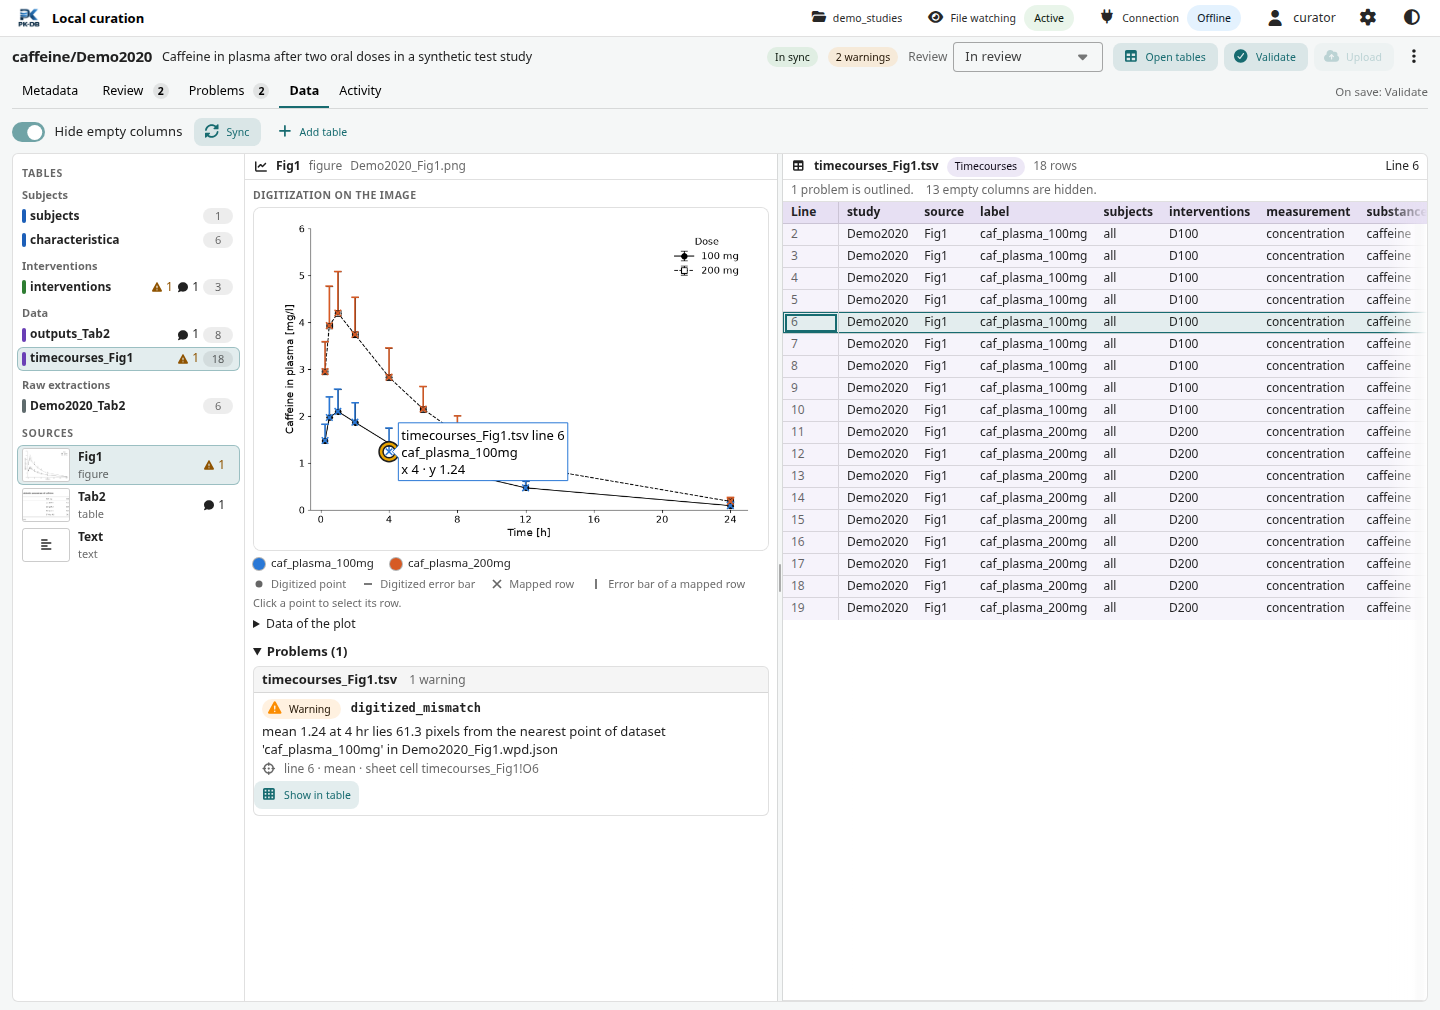
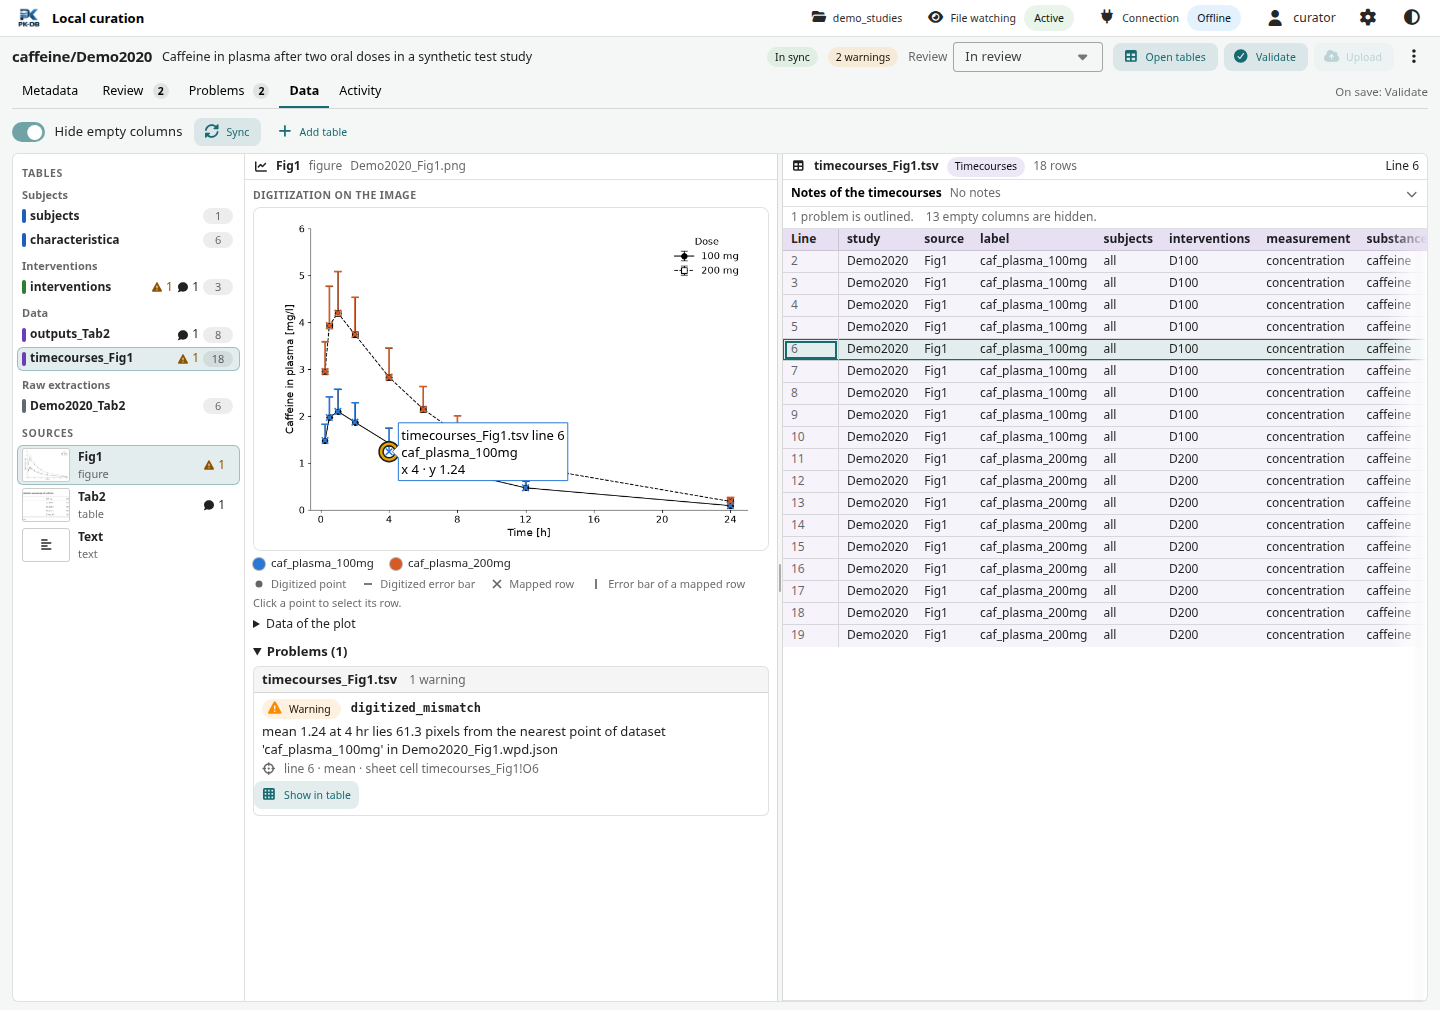
Document the notes of a table in the Data section

Changed region(s): [[0.5312, 0.1842, 1.0, 0.6446]]

diff --git a/docs/local-curation.md b/docs/local-curation.md
@@ -107,9 +107,9 @@ The Metadata section edits `study.json` in forms.
 - **People**: the creator, the curators with a rating from 0 to 5 stars in half steps, and the collaborators, offered from the curator roster.
 - **Access and provenance**: the licence, open or closed, and the access, public or private; public needs a release. The provenance is a manual curation, or an automatic curation with its method, version, run ID and assets. A data import is shown as the importer set it.
 - **Issue and release**: read only. `pkdb new` or `pkdb issues sync --adopt` sets the issue. `pkdb release STUDY...` sets the release of approved studies without open review items and validation errors; release through a pull request.
-- **Descriptions and comments**, and **Notes per table** for each kind of table. A comment records the user who wrote it.
+- **Descriptions and comments** of the study. A comment records the user who wrote it. The notes of each kind of table are in the Data section, above the table; the notes of a kind that the study has no table of stay in this card.
 
-Edits stay in the form until you save them. The bar at the bottom shows **Unsaved changes in study.json** with **Save** and **Discard**, and **Undo** brings discarded edits back for a few seconds. Leaving the section with unsaved changes asks first. **Save** checks the whole document and writes it. When it is not valid, nothing is written and the fields with problems are marked. A new PMID or DOI fetches `reference.json` for it; when the lookup fails, `study.json` is saved and the bar says why.
+Edits stay in the form until you save them. The Metadata and Data sections edit one draft of `study.json`: the bar at the bottom of both shows **Unsaved changes in study.json** with **Save** and **Discard**, and **Undo** brings discarded edits back for a few seconds. A dot on the tab of a section marks its unsaved fields: Metadata for the fields of this section, Data for the notes of the tables. Switching between the sections of the study keeps the edits; leaving the study with unsaved changes asks first. **Save** checks the whole document and writes it. When it is not valid, nothing is written, the fields with problems are marked, and the bar lists the problems in the notes of a table with their field. A new PMID or DOI fetches `reference.json` for it; when the lookup fails, `study.json` is saved and the bar says why.
 
 When `study.json` changes on disk while the form has unsaved edits, **Save** is refused and the bar offers **Reload**. Reload puts your edits on top of the new version and marks the fields that changed on disk. A field that changed on both sides keeps your edit, shows the value on disk, and offers **Use the disk version**. Without unsaved edits, the form follows the file on disk by itself.
 
@@ -131,7 +131,7 @@ The review status select in the header, labelled **Review**, sets Draft, In revi
 
 The Problems section lists the issues of the last validation by file. Each shows its severity, code and message, and where it is: the line and the column of the TSV file and the cell of the workbook sheet. Spelling suggestions follow **Did you mean:**.
 
-Filter by **All**, **Errors** or **Warnings**. **Show in table** opens the Data section at the cell of the issue. **Open** opens another file of the study, such as `study.json`, in its default application, and **Open tables** opens the workbook.
+Filter by **All**, **Errors** or **Warnings**. **Show in table** opens the Data section at the cell of the issue. **Show notes** opens the notes of a kind of table above its first table in the Data section, for a problem in those notes in `study.json`. **Open** opens another file of the study, such as `study.json`, in its default application, and **Open tables** opens the workbook.
 
 **Acknowledge** marks a warning as expected; errors cannot be acknowledged. Neither can the warnings of a sync that stopped before the validation, such as a workbook saved during the sync: they are about the workbook, not about the study files. It asks for a reason and writes a resolved review item that acknowledges exactly this warning: a warning at a row of a data table at its row and column, and a warning of a whole file by its key, such as the dataset of a WebPlotDigitizer project or the review item of `review.json`. Other warnings with the same code, also later ones, stay listed. The warning leaves the list after the next validation. The acknowledged warnings are listed below the problems with their reason and a link to their review item. An acknowledgement that names only a file, as the app wrote before acknowledgements were exact, covers every warning of its code in that file, also later ones, and the list says so. Dismissing the review item brings its warnings back.
 
@@ -150,6 +150,10 @@ The separator between the source pane and the rows pane resizes them; drag it or
 The selection is linked. Choose a table in the navigator, and the source pane shows its source: a table of one source, such as `outputs_Tab2.tsv` or the raw extraction `Demo2020_Tab2.tsv`, belongs to `Tab2`, and a shared table keeps the source that is shown. Choose a source, and the rows pane shows the first table that it owns, unless it already shows a table of the source; a source that owns no table, such as the text, keeps the current table when it is a shared table, else opens the first table that names the source in its rows. Click a row of a shared table, and the source pane shows the source that the row names. Click a row, and the source pane rings its point on the plot or the image. Click the cross of a mapped row, and the rows pane selects its row. The selection is in the address of the page as `source`, `file`, `line` and `column`, so that **Show in table** of the Problems and Review sections and the line numbers of a review target open the row. The section opens on the first table with problems or open review items, else on the first table, beside its source, or beside the first source for a shared table, and keeps the selection in the address, so that it stays when the problems change.
 
 The mapped rows of a source are the rows of its tables `outputs_<source>.tsv`, `timecourses_<source>.tsv` and `scatters_<source>.tsv`, and the rows of `subjects.tsv`, `characteristica.tsv` and `interventions.tsv` whose `source` names it. These three tables are shared by the sources and name the source of each row, so the rows pane shows all of their rows and has a **Source** select in its head: **All**, each source that the rows name, and **No source**, each with its number of rows. The app keeps the choice of each table while the study is open. When no row has the chosen source, the rows pane says so, with a **Show all rows** button. A row that the address names always shows. **Hide empty columns** hides the columns without values; it is on when the section opens, and the line above the grid counts the hidden columns.
+
+[![The Data section with subjects.tsv: the notes of the subjects open above its rows with two descriptions and a comment, a changed description, the Data tab marked as unsaved, and the bar with Save and Discard at the bottom.](images/curation/data-notes.png)](images/curation/data-notes.png)
+
+Above the rows of a table, a line such as **Notes of the subjects** says what `study.json` notes about that kind of table, such as **2 descriptions · 1 comment** or **No notes**. Click it to open the descriptions and comments and edit them, and again to close them. Notes belong to a kind of table, so every `outputs_<source>.tsv` shows the same notes of the outputs, and a raw extraction has none. The notes start closed, open by themselves when a field in them has a problem, and stay open or closed for each kind while the study is open. Edits go into the draft of `study.json` that the Metadata section edits too: the bar at the bottom of the section shows **Save**, **Discard** and **Undo**, and the Data tab has a dot until you save. While `study.json` is not valid, the notes say so and list the problems in them, with a link to the Metadata section.
 
 The toolbar above the panes has, in this order: in a window narrower than 1100 pixels, the selects **Table** and **Source**; the switch **Hide empty columns**, while a table is shown; **Sync**, which syncs the workbook `<name>.xlsx` and the tables at once; and **Add table**, which adds a sheet to the workbook, see [Work with the workbook](#work-with-the-workbook). A line of text ends the toolbar: after a sync in the app it says what the sync changed, and while the status is not In sync it says what the status means. The sync status itself is in the study header.
 

diff --git a/tools/curation_docs/README.md b/tools/curation_docs/README.md
@@ -1,6 +1,6 @@
 # Curation app screenshots and benchmarks
 
-`render.mjs` renders the screenshots of [the local curation app guide](../../docs/local-curation.md) into `docs/images/curation/`: `overview.png`, `review.png`, `data.png`, `metadata.png` and `data-conflict.png`, in the light theme, 1440 pixels wide. `review.png` and `data.png` are 1010 pixels high, so that they show the whole review target or the whole figure with its legend; the others are 900 pixels high. It drives the real app of a running `pkdb curate` in Chromium by roles and labels. The app runs on a copy of the synthetic fixture workspace of the browser tests (`tools/curation_testing/fixture`), so the images show no real publication or account.
+`render.mjs` renders the screenshots of [the local curation app guide](../../docs/local-curation.md) into `docs/images/curation/`: `overview.png`, `review.png`, `data.png`, `metadata.png`, `data-notes.png` and `data-conflict.png`, in the light theme, 1440 pixels wide. `review.png` and `data.png` are 1010 pixels high, so that they show the whole review target or the whole figure with its legend; the others are 900 pixels high. It drives the real app of a running `pkdb curate` in Chromium by roles and labels. The app runs on a copy of the synthetic fixture workspace of the browser tests (`tools/curation_testing/fixture`), so the images show no real publication or account.
 
 The renderer changes the workspace: for `data-conflict.png` it edits the same cell of `caffeine/Demo2020` in the workbook and in `timecourses_Fig1.tsv`. Start every run from a fresh copy.
 
@@ -25,7 +25,7 @@ In a second terminal, pass the launch URL that `pkdb curate` printed, before any
 PKDB_CURATION_URL='http://127.0.0.1:PORT/#token=LAUNCH_TOKEN' node tools/curation_docs/render.mjs
 ```
 
-The renderer imports the column letters from `frontend/src/curation-app/columns.ts`, which Node.js runs without a build step since version 22.18. It accepts only a launch URL on a loopback address, and refuses a workspace folder with another name than `demo_studies`. It never prints the launch token: an error message shows `<launch token>` in its place. Before each image it waits until the app shows the expected content, no menu is open and nothing moves. It writes the five images and quantizes them to 256 colors with `optimize_png.py`, which keeps them small without a visible change: it keeps a quantized image only when no channel of any pixel differs from the original by more than 12, so that thin colored bars keep their hue, and leaves an image as it is otherwise. Set `PKDB_CURATION_SCREENSHOTS` to a folder to write the images there instead. Stop `pkdb curate` with Ctrl+C afterwards, and look at every image before you commit it.
+The renderer imports the column letters from `frontend/src/curation-app/columns.ts`, which Node.js runs without a build step since version 22.18. It accepts only a launch URL on a loopback address, and refuses a workspace folder with another name than `demo_studies`. It never prints the launch token: an error message shows `<launch token>` in its place. Before each image it waits until the app shows the expected content, no menu is open and nothing moves. It writes the six images and quantizes them to 256 colors with `optimize_png.py`, which keeps them small without a visible change: it keeps a quantized image only when no channel of any pixel differs from the original by more than 12, so that thin colored bars keep their hue, and leaves an image as it is otherwise. Set `PKDB_CURATION_SCREENSHOTS` to a folder to write the images there instead. Stop `pkdb curate` with Ctrl+C afterwards, and look at every image before you commit it.
 
 Validation performance can be measured offline with `python/.venv/bin/python tools/curation_docs/benchmark_validation.py /path/to/studies`. See [measured timings and optimization opportunities](../../docs/benchmarks/curation-validation-2026-09-24.md).
 

diff --git a/release-notes/unreleased.md b/release-notes/unreleased.md
@@ -3,3 +3,5 @@
 - The local curation app says what failed and why (#923). Every failed request of the local curation server answers with a message that names the action and the study, the detail of its cause (for a program that could not open a file: its name, its exit status and the end of its error output), the action, a request id and the time, and an unexpected error adds its traceback. The app shows the message and the detail in its alerts, with Details (the facts and the traceback), Copy details, which copies them as Markdown for an issue, and Show in Activity; a study, table or source that cannot be read says why. Failed changes of a study that the server logs are listed in its Activity, a failed job keeps its error, and File watching shows Error while the file watcher fails. The server writes these failures with their traceback to `logs/curation.log` in its state directory (by default `~/.cache/pkdb/curation/` on Linux) and one line naming the request id to the terminal of `pkdb curate`; a failure that repeats is logged once a minute, and the API key and the tokens appear in no answer, log or terminal line. `pkdb tables open` says which command failed instead of printing a traceback.
 
 - The Data section of the local curation app shows the tables first and color codes them (#924). The navigator lists the tables under Subjects, Interventions, Data and Raw extractions, each with a bar in the color of its class of information (blue, green, violet and gray), its problems, open review items and rows, and the sources follow below, in a navigator as wide as its longest name up to 320 pixels; the rows pane tints its table in the same color and frames the selected row. The subjects, characteristica and interventions tables show every row with a Source select in the head of the rows pane (All, each source, No source) in place of the switch Rows of the source only, choosing a table selects its source, and the section opens on the first table with problems or open review items. The source pane fades out at its bottom while it scrolls, and the thumbnails of large paper images no longer stay white in the navigator.
+
+- The Data section of the local curation app shows the notes of a table above the table (#918). A line such as Notes of the subjects says what study.json notes about that kind of table, opens to edit its descriptions and comments, opens by itself when a field in it has a problem, and shows the same notes for every table of the kind. The Metadata and Data sections edit one draft of study.json with one bar to save, discard and undo, the tab of each section marks its unsaved fields, switching between the sections keeps the edits, and leaving the study with unsaved changes asks first. The card for the notes of each table is gone from Metadata, which keeps only the notes of a kind that the study has no table of, and Show notes in Problems opens the notes of a table for a problem in them.
